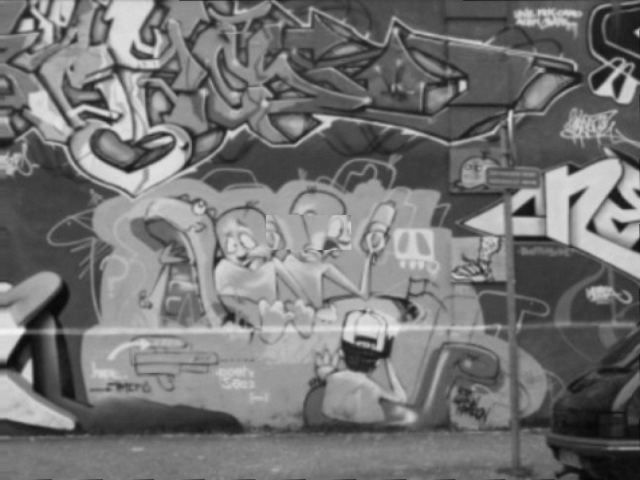
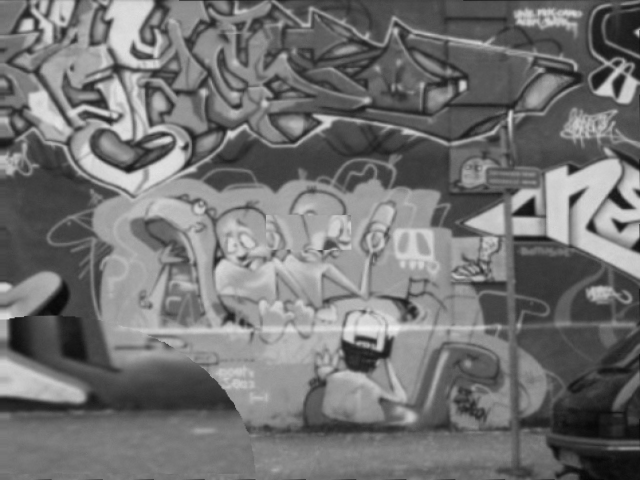
feat: add second alignment per misaligned region
- second_alignment: for each connected misaligned region, fit a second
  2D motion (translation, affine or quadratic by region size) starting
  from the dominant one, keep the pixels it aligns, and repeat on the
  rest (up to 3 layers per region)
- Layer dataclass holds each layer's mask, motion ref->k and ref->j,
  model and area

Changed region(s): [[0.0, 0.6562, 0.4062, 0.9375]]

diff --git a/mod_3d.py b/mod_3d.py
@@ -3,6 +3,7 @@ from __future__ import annotations
 import argparse
 from collections import deque
 from dataclasses import dataclass, field
+from sys import implementation
 
 import cv2
 import numpy as np
@@ -198,7 +199,7 @@ def dominant_motion(ref, other, norm=None):
 # -----------------------------------------------
 def misalignment_map(ref,warped, win=7, noise=0.01, measure="normal_flow"):
   """normal_flow: residual displacement in pixels (threshold ~1.0)
-     intensity: |I_ref - I_warped| in grey levels (threshold ~6)"""
+  intensity: |I_ref - I_warped| in grey levels (threshold ~6)"""
   a = cv2.GaussianBlur(to_gray(ref), (0,0), 1.0)
   b = cv2.GaussianBlur(to_gray(warped), (0,0), 1.0)
   it = b - a
@@ -210,3 +211,60 @@ def misalignment_map(ref,warped, win=7, noise=0.01, measure="normal_flow"):
   num = cv2.boxFilter(it * it, -1, (win, win))
   den = cv2.boxFilter(gx * gx + gy * gy, -1, (win, win))
   return np.sqrt(np.maximum(num, 0) / (np.maximum(den, 0) + (3 * noise) ** 2))
+
+# -----------------------------------------------
+# Second alignment per misaligned region
+# -----------------------------------------------
+@dataclass
+class Layer:
+  mask: np.ndarray # boll, full ref frame
+  theta_k: np.ndarray # 2nd motion ref -> k
+  theta_j: np.ndarray # 2nd motion ref -> j
+  model: str
+  area: int = 0
+  parallax: float = 0.0 # median |mu|
+  score: float = 0.0 # mean rigidity score
+  moving: bool = False
+
+def _sub_model(area):
+  """Simplier model for smaller region (fewer pixels -> fewer params)"""
+  if area < 1200:
+    return "translation"
+  if area < 15000:
+    return "affine"
+  return "quadratic"
+
+def second_alignment(I_ref, I_k, I_j, mis_ref, th1_k,th1_j, norm, thresh, measure="normal_flow",
+                     min_area=60, max_layers_per_region=3, margin=40, min_inlier_frac=0.25):
+  """For every misaligned region fit a 2nd 2D parametric motion (started from
+  the dominant one), keep the pixels it aligns, repeat on what is left"""
+  R, K, J = to_gray(I_ref), to_gray(I_k), to_gray(I_j)
+  H, W = R.shape
+  layers = []
+  n, lab, stats, _ = cv2.connectedComponentsWithStats(mis_ref.astype(np.uint8), connectivity=8)
+  for c in range(1, n):
+    x, y, bw, bh, area = stats[c]
+    if area < min_area: continue
+    x0, y0 = max(0, x - margin), max(0, y - margin)
+    x1, y1 = min(W, x + bw + margin), min(H, y + bh + margin)
+    Rc, Kc, Jc = R[y0:y1, x0:x1], K[y0:y1, x0:x1], J[y0:y1, x0:x1]
+    support = lab[y0:y1, x0:x1] == c
+    lv = _n_levels(Rc.shape, min_size=16, max_levels=3)
+    for _ in range(max_layers_per_region):
+      s_area = int(support.sum())
+      if s_area < min_area: break
+      model = _sub_model(s_area)
+      th2_k = gauss_newton(Rc, Kc, th1_k, model, support, norm, origin_xy=(x0,y0), levels=lv)
+      th2_j = gauss_newton(Rc, Jc, th1_j, model, support, norm, origin_xy=(x0,y0), levels=lv)
+      wk, _ = backward_warp(Kc, *model_flow_field(th2_k, Rc.shape, norm, origin_xy=(x0,y0)))
+      wj, _ = backward_warp(Jc, *model_flow_field(th2_j, Rc.shape, norm, origin_xy=(x0,y0)))
+      rk = misalignment_map(Rc, wk, measure=measure)
+      rj = misalignment_map(Rc, wj, measure=measure)
+      inl = support & (rk < thresh) & (rj < thresh)
+      inl = clean_mask(inl, open_px=3, close_px=5, min_area=min_area // 2)
+      if inl.sum() < max(min_area, min_inlier_frac * s_area): break
+      full = np.zeros((H, W), bool)
+      full[y0:y1, x0:x1] = inl
+      layers.append(Layer(full, th2_k, th2_j, model, int(inl.sum())))
+      support = clean_mask(support & ~inl, open_px=3, close_px=3, min_area=min_area)
+  return layers
